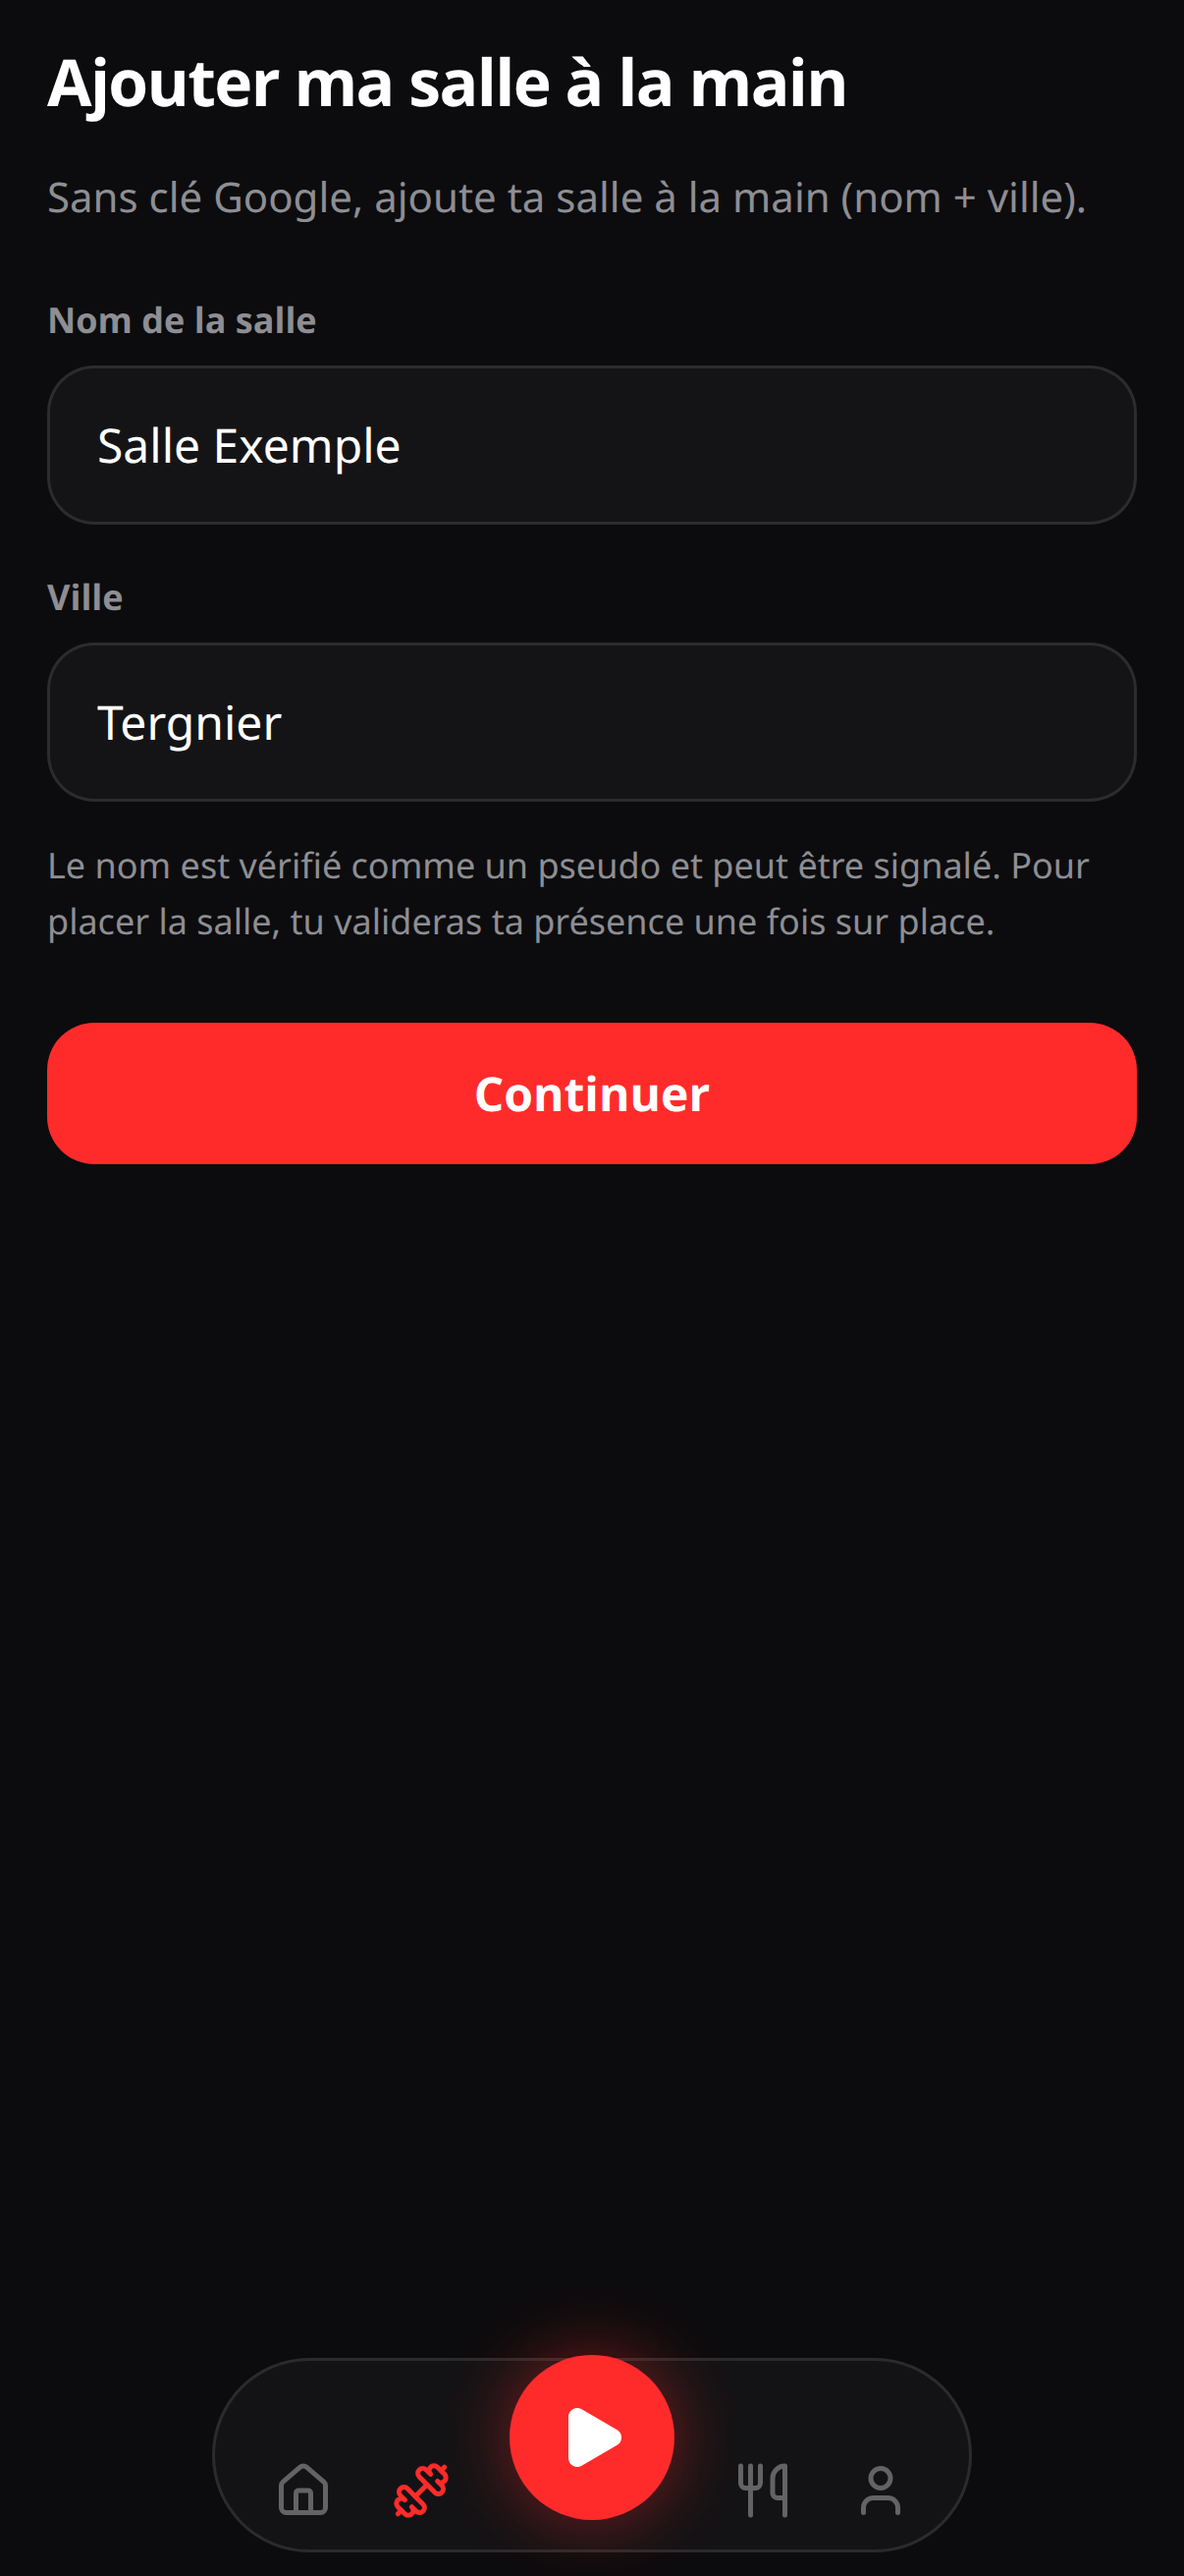
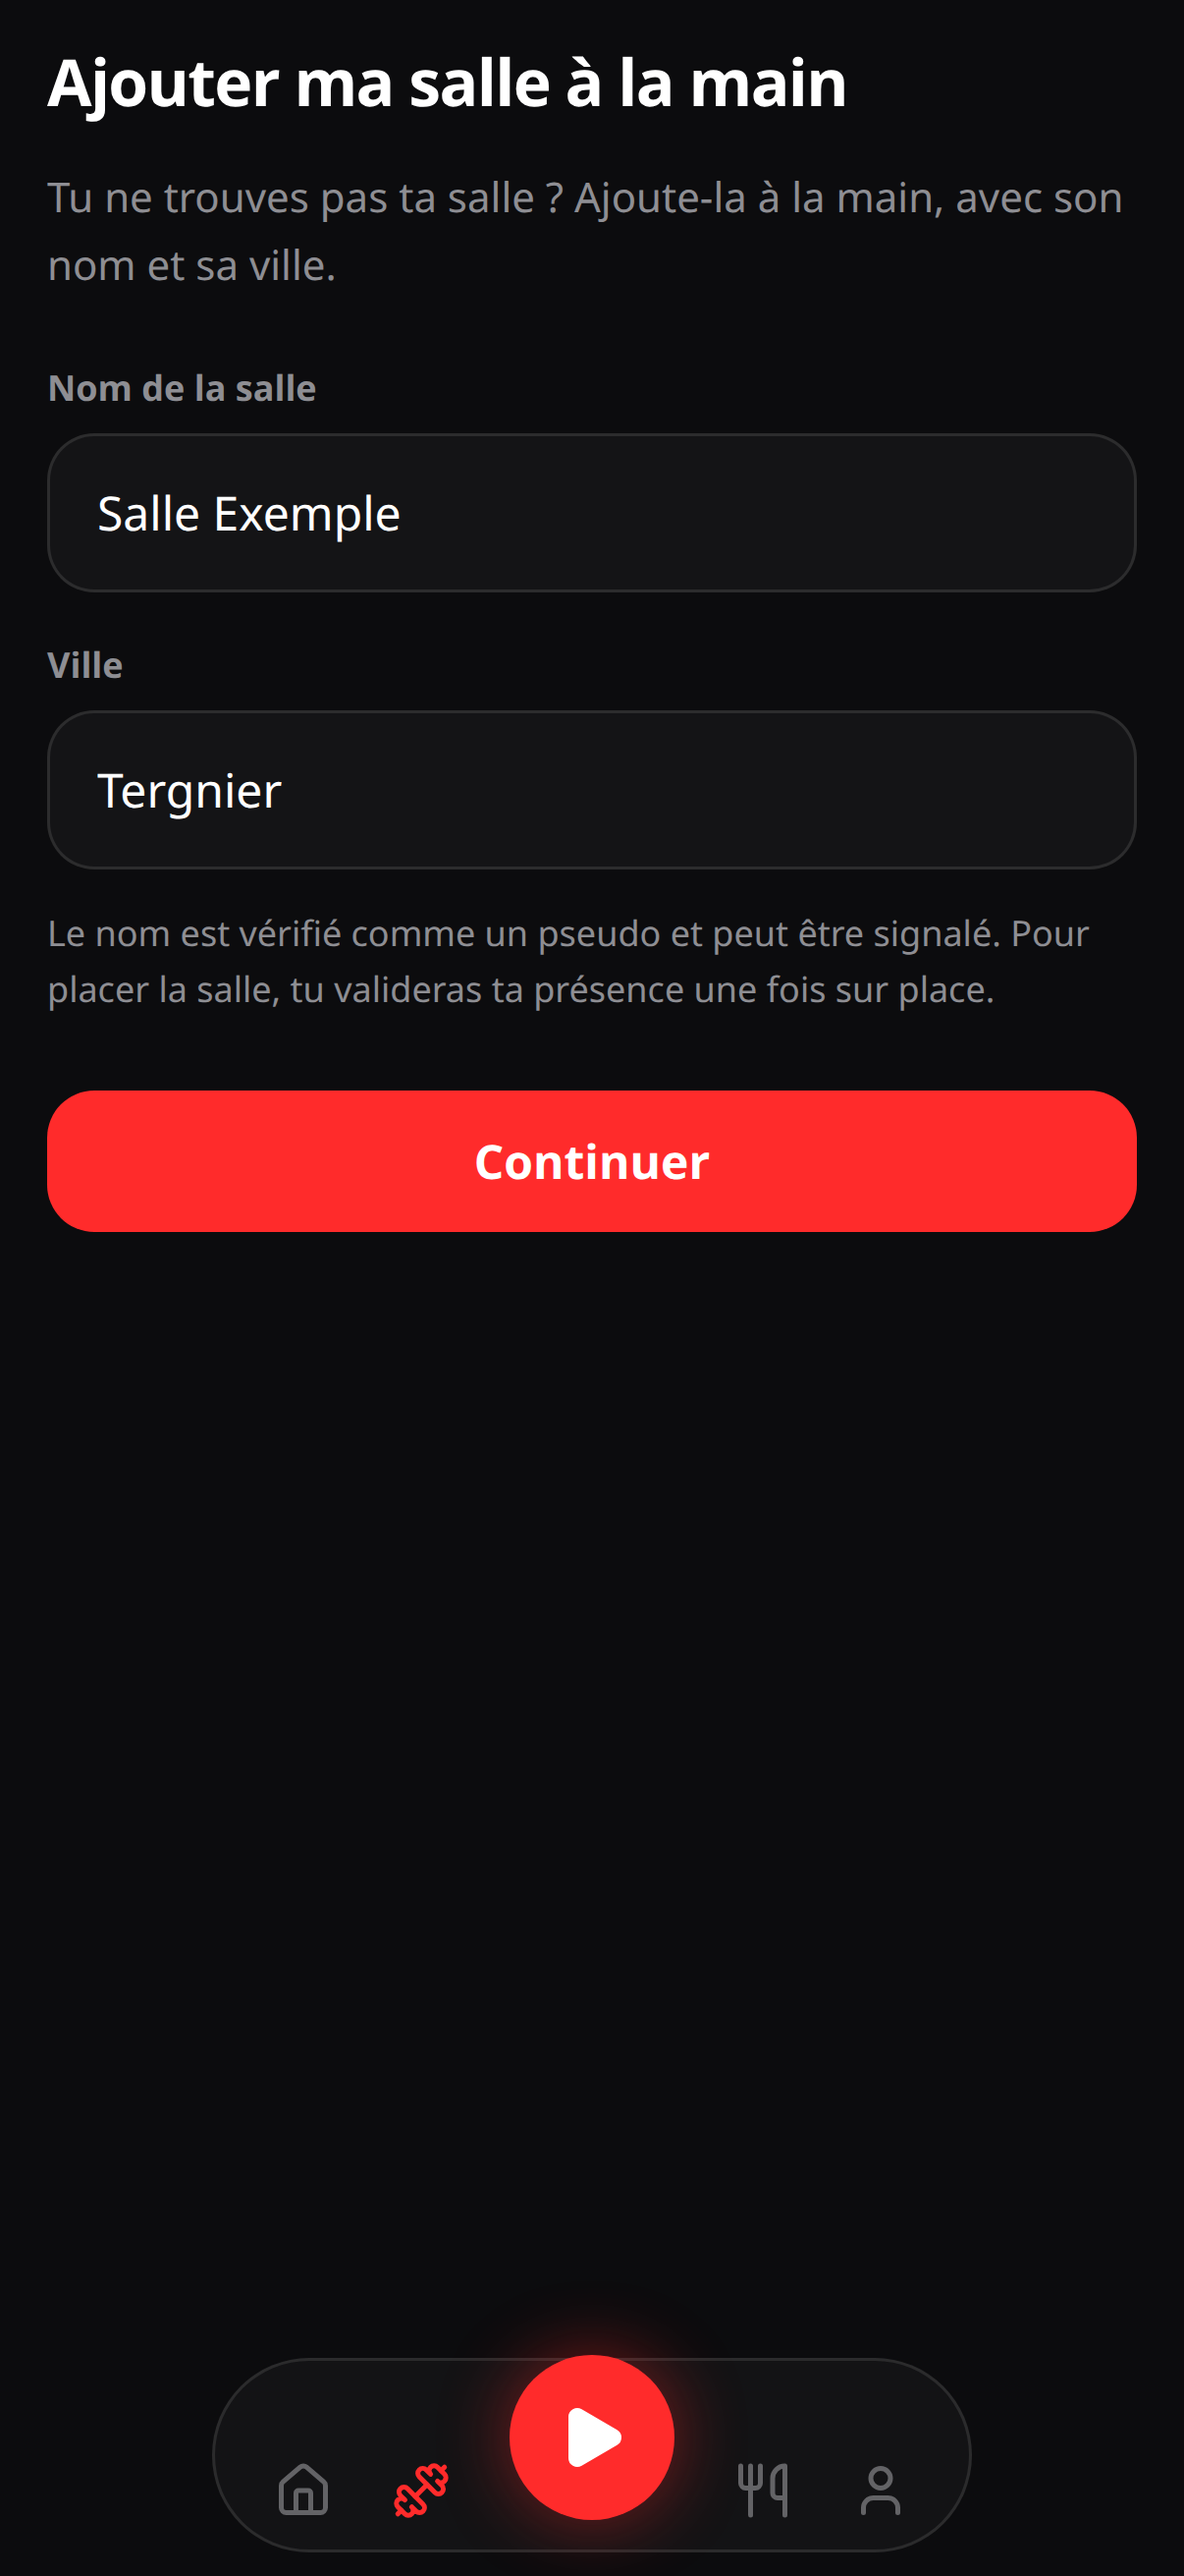
fix(classement): plain French copy, no technical words in UI
Replace MANUAL_FALLBACK_HINT; drop « clé Google » / sync jargon from
user-facing strings. « Google Maps » attribution kept. Maquette badge
remains fixture-only (showMockupBadge defaults false).

Changed region(s): [[0.0307, 0.2162, 0.9818, 0.4943], [0.0307, 0.0618, 0.9511, 0.2162]]

diff --git a/src/lib/gymLeaderboard/texts.ts b/src/lib/gymLeaderboard/texts.ts
@@ -49,7 +49,7 @@ export const MANUAL_ADD_CITY_LABEL = 'Ville'
 export const MANUAL_SEARCH_PAUSED =
   'La recherche est en pause. Réessaie demain, ou ajoute ta salle à la main.'
 export const MANUAL_FALLBACK_HINT =
-  'Sans clé Google, ajoute ta salle à la main (nom + ville).'
+  'Tu ne trouves pas ta salle ? Ajoute-la à la main, avec son nom et sa ville.'
 
 export const POSITION_IMPRECISE =
   'Position pas assez précise. Réessaie près de l\'entrée.'

diff --git a/src/components/classement/GymLeaderboardFlow.tsx b/src/components/classement/GymLeaderboardFlow.tsx
@@ -57,7 +57,7 @@ export function GymLeaderboardFlow({
       }
       setGymPoint({ lat: pos.reading.lat, lng: pos.reading.lng })
       setToast(
-        'Point de la salle enregistré sur cet appareil. La validation comptera une fois synchronisée.',
+        'Point de la salle enregistré. Ta présence comptera ce soir dans le classement.',
       )
       return
     }
